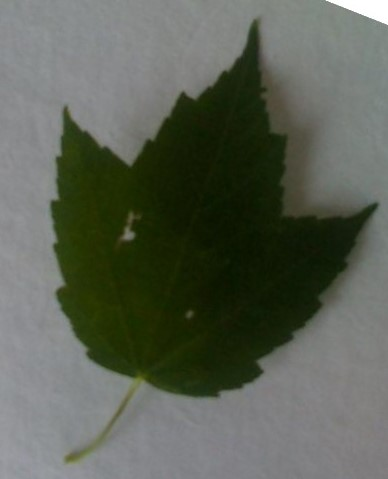
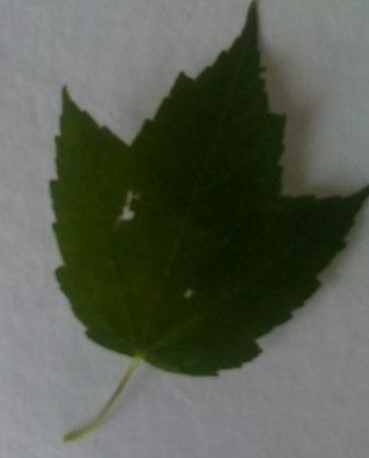
Funcion de invarianza de rotacion agregada

diff --git a/PIA/PIA.py b/PIA/PIA.py
@@ -1,25 +1,26 @@
 import cv2
 import numpy as np
 import matplotlib.pyplot as plt
+import math
 
-# Paso 1: Cargar la imagen y verificar si se cargó correctamente
-image = cv2.imread('hoja_rotada.jpg')  # Reemplaza con la ruta de tu imagen
+# Cargar la imagen y verificar si se cargó correctamente
+image = cv2.imread('hoja_rotada2.jpg')  # Reemplaza con la ruta de tu imagen
 if image is None:
     raise FileNotFoundError("La imagen no se pudo cargar. Verifica la ruta.")
 
-# Paso 2: Convertir la imagen a escala de grises
+# Convertir la imagen a escala de grises
 gray_image = cv2.cvtColor(image, cv2.COLOR_BGR2GRAY)
 
-# Paso 3: Calcular el histograma de la imagen en escala de grises (hasta 255 para incluir fondo)
+# Calcular el histograma de la imagen en escala de grises
 histogram, bin_edges = np.histogram(gray_image, bins=256, range=(0, 255))
 
-# Paso 4: Encontrar el valor dominante del fondo (el valor con más píxeles)
+# Encontrar el valor dominante del fondo (el valor con más píxeles)
 fondo_valor = np.argmax(histogram)
 print("Valor dominante del fondo: ", fondo_valor)
 
-# Paso 5: Definir un rango para el fondo alrededor del valor dominante
+# Definir un rango para el fondo alrededor del valor dominante
 # (asumiendo que el fondo tiene una variación leve de intensidad)
-rango_fondo = 60  # Ajustar según la variabilidad del fondo
+rango_fondo = 60  # Si el fondo es constante (segun el Dataset lo es) no habra problema con este valor
 
 lambda_min_fondo = max(fondo_valor - rango_fondo, 0)
 lambda_max_fondo = min(fondo_valor + rango_fondo, 255)
@@ -27,59 +28,72 @@ lambda_max_fondo = min(fondo_valor + rango_fondo, 255)
 print("lambda mínima (fondo): ", lambda_min_fondo)
 print("lambda máxima (fondo): ", lambda_max_fondo)
 
-# Paso 6: Binarización excluyendo el fondo
+# Binarización excluyendo el fondo
 binary_image = np.where(
     (gray_image < lambda_min_fondo) | (gray_image > lambda_max_fondo), 1, 0).astype(np.uint8) * 255
 
-# Paso 8: Usamos np.nonzero para encontrar los píxeles que no son fondo (es decir, píxeles diferentes de 0)
+# Usamos np.nonzero para encontrar los píxeles que no son fondo (es decir, píxeles diferentes de 0)
 non_zero_pixels = np.nonzero(binary_image)
 
-# Paso 3: Encontrar los límites de recorte (A, C, B, D)
-A = np.min(non_zero_pixels[0])  # Límite superior (primer píxel no cero en filas)
-C = np.max(non_zero_pixels[0])  # Límite inferior (último píxel no cero en filas)
-B = np.min(non_zero_pixels[1])  # Límite izquierdo (primer píxel no cero en columnas)
-D = np.max(non_zero_pixels[1])  # Límite derecho (último píxel no cero en columnas)
+# Funcion para obtener los puntos extremos de la hoja (Puntos A, B C y D)
+# Se obtienen 2 veces, antes de ser rotados y despues de ser rotado
+def extremos(binary_image):
+    non_zero_pixels = np.nonzero(binary_image)
 
-print("A: ",A,"\nB: ",B,"\nC: ",C,"\nD: ",D)
+    # Encontrar los límites de recorte (A, C, B, D)
+    A = np.min(non_zero_pixels[0])  # Límite superior (primer píxel no cero en filas)
+    C = np.max(non_zero_pixels[0])  # Límite inferior (último píxel no cero en filas)
+    B = np.min(non_zero_pixels[1])  # Límite izquierdo (primer píxel no cero en columnas)
+    D = np.max(non_zero_pixels[1])  # Límite derecho (último píxel no cero en columnas)
 
-# Función para verificar si B y D están alineados y A y C están alineados
-def verificar_alineacion(binary_img):
-    # Recalcular los límites A, B, C, D
-    non_zero_pixels = np.nonzero(binary_img)
-    A = np.min(non_zero_pixels[0])
-    C = np.max(non_zero_pixels[0])
-    B = np.min(non_zero_pixels[1])
-    D = np.max(non_zero_pixels[1])
-    # Verificar si B y D están en la misma fila y A y C en la misma columna
-    return A == C and B == D
+    print("A: ",A,"\nB: ",B,"\nC: ",C,"\nD: ",D)
 
-# Función para rotar la imagen
-def rotar_imagen(img, angulo):
-    M = cv2.getRotationMatrix2D((img.shape[1] // 2, img.shape[0] // 2), angulo, 1)
-    return cv2.warpAffine(img, M, (img.shape[1], img.shape[0]))
+    return A, B, C, D
 
-# Probar rotaciones en ambos sentidos
-angulo_min = None
-esfuerzo_min = None
-imagen_rotada_final = None
+# Obtenemos los datos de los extremos antes de ser rotados
+A, B, C, D = extremos(binary_image)
 
-for angulo in range(0, 180, 5):  # Iterar en pasos de 5 grados hasta 180
-    for direccion in [1, -1]:  # Probar rotación en sentido positivo y negativo
-        angulo_actual = angulo * direccion
-        img_rotada = rotar_imagen(binary_image, angulo_actual)
-        
-        # Verificar alineación y guardar si requiere menos esfuerzo
-        if verificar_alineacion(img_rotada):
-            esfuerzo = abs(angulo_actual)
-            if esfuerzo_min is None or esfuerzo < esfuerzo_min:
-                esfuerzo_min = esfuerzo
-                angulo_min = angulo_actual
-                imagen_rotada_final = img_rotada.copy()
+# Se obtiene la coordenada de la fila en B y D
+y_B = np.min(non_zero_pixels[0][non_zero_pixels[1] == B])
+y_D = np.min(non_zero_pixels[0][non_zero_pixels[1] == D])
 
-# Paso 9: Recortar la imagen original utilizando los límites encontrados
-cropped_image = imagen_rotada_final[A:C+1, B:D+1]
+# Calcular el ángulo necesario para alinear B y D
+delta_y = y_D - y_B
+delta_x = D - B
+angle = math.degrees(math.atan2(delta_y, delta_x))
 
-# PASO NUEVO: Crear el histograma de la proyección Top (de B a D)
+print(f"Ángulo calculado para alinear B y D: {angle:.2f} grados")
+
+# Rotar la imagen usando el ángulo calculado
+center = (binary_image.shape[1] // 2, binary_image.shape[0] // 2)
+M = cv2.getRotationMatrix2D(center, angle, 1.0)
+binary_image_rotated = cv2.warpAffine(binary_image, M, (binary_image.shape[1], binary_image.shape[0]))
+
+# Dibujar puntos B y D antes y después de la rotación
+image_with_points = cv2.cvtColor(binary_image, cv2.COLOR_GRAY2BGR)
+rotated_with_points = cv2.cvtColor(binary_image_rotated, cv2.COLOR_GRAY2BGR)
+
+cv2.circle(image_with_points, (B, y_B), 5, (0, 0, 255), -1)  # Punto B antes de rotación
+cv2.circle(image_with_points, (D, y_D), 5, (255, 0, 0), -1)  # Punto D antes de rotación
+
+# Transformar coordenadas después de la rotación
+B_rot = np.dot(M, np.array([B, y_B, 1]))
+D_rot = np.dot(M, np.array([D, y_D, 1]))
+
+cv2.circle(rotated_with_points, (int(B_rot[0]), int(B_rot[1])), 5, (0, 0, 255), -1)  # Punto B después de rotación
+cv2.circle(rotated_with_points, (int(D_rot[0]), int(D_rot[1])), 5, (255, 0, 0), -1)  # Punto D después de rotación
+
+# Mostrar imágenes
+cv2.imshow('Imagen Original con Puntos', image_with_points)
+cv2.imshow('Imagen Rotada con Puntos', rotated_with_points)
+
+# Se vuelve a obtener los extremos de la imagen para su recorte
+A, B, C, D = extremos(binary_image_rotated)
+
+# Recortar la imagen original utilizando los límites encontrados
+cropped_image = binary_image_rotated[A:C+1, B:D+1]
+
+# Crear el histograma de la proyección Top (de B a D)
 top_projection = []
 
 # Recorremos de B a D para la proyección Top
@@ -147,7 +161,7 @@ plt.show()
 # Mostrar las imágenes
 cv2.imshow('Imagen Original', image)
 cv2.imshow('Imagen en Blanco y Negro', gray_image)
-cv2.imshow('Imagen Binarizada', binary_image)
+cv2.imshow('Imagen Binarizada', binary_image_rotated)
 cv2.imshow('Imagen Recortada', cropped_image)
 
 # Subplot 1: Top
